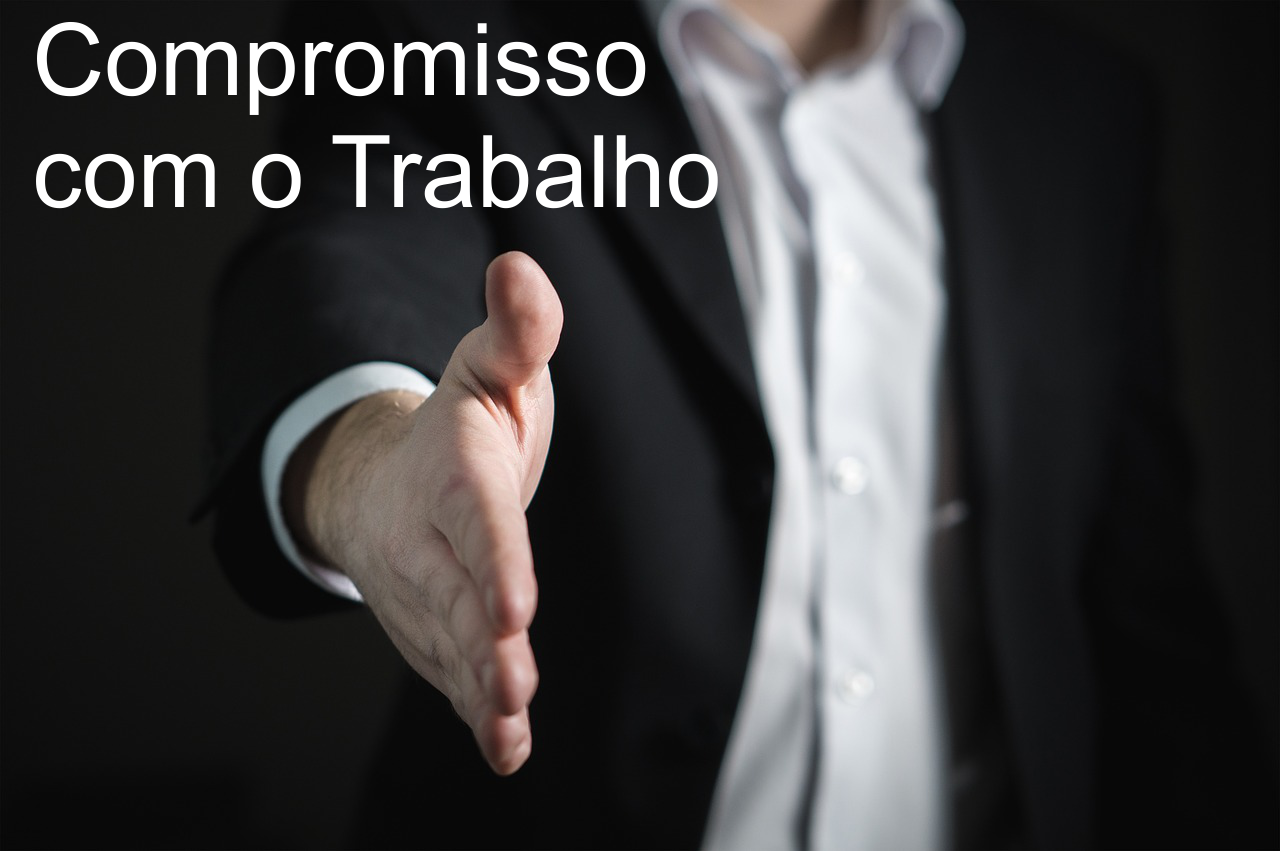
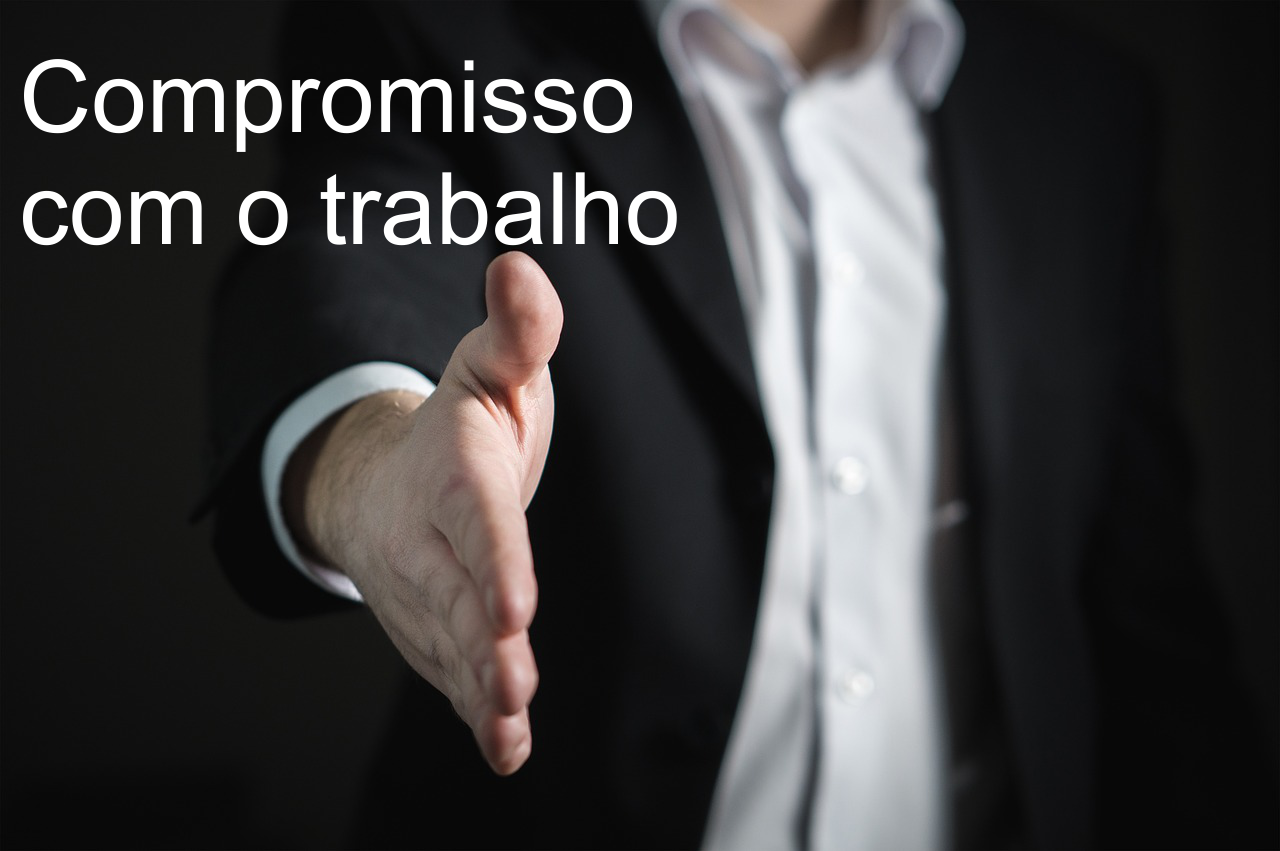
Alterando Menu e carousel

Changed region(s): [[0.0, 0.0306, 0.5625, 0.3055]]

diff --git a/index.html b/index.html
@@ -66,6 +66,10 @@
                         <li>
                             <a  class="menu scroll" href="#trabconosco">Trabalhe Conosco</a>
                         </li>
+                        
+                        <li>
+                                <a href="login.html" class="alert alert-primary">Área do Cliente </a>
+                        </li>
                     </ul>
                 </div>
                 
@@ -76,8 +80,6 @@
       <!-- Slider da aplicação -->
       <section id="slides" >
         <div class="divslider">
-            <div class="container">
-                <div class="col-xs-12">
                     <div id="sliderprincipal" class="carousel slide" data-ride="carousel" >
                 
                     <ol class="carousel-indicators"> 
@@ -86,17 +88,17 @@
                         <li data-target="#sliderprincipal" data-slide-to="2"></li>
                     </ol>
                 
-                        <div class="carousel-inner" role="listbox" align="center" height="50" >
+                        <div class="carousel-inner" role="listbox" align="center"  >
 			                 <div class="item active" height="500">
-				                <img src="imgs/slides/gestao-online.png" alt="gestao online" style="height:500px" width="1110px"> 
+				                <img src="imgs/slides/gestao-online.png" alt="gestao online" style="height:750px;width:100% " > 
 			                 </div>
 			
 			                 <div class="item">
-				                <img src="imgs/slides/administracao.png" alt="Administração de Condominios" style="height:500px" width="1100px"> 
+				                <img src="imgs/slides/administracao.png" alt="Administração de Condominios" style="height:750px;width:100% "> 
 			                 </div>	
 			
 			                 <div class="item">
-				                <img src="imgs/slides/compromisso.png" alt="Comprimisso com o trabalho" style="height:500px" width="1100px"> 
+				                <img src="imgs/slides/compromisso.png" alt="Comprimisso com o trabalho" style="height:750px;width:100% " > 
 			                 </div>	
                         </div>
                         
@@ -111,12 +113,10 @@
                         </a>
                         
                     </div>
-                </div>    
-            </div>
+                   
+           
                       
-                <div class="cols-xs-12 text-center ">
-                    <a href="login.html" class="btn btn-primary  slide_btn_portal">Clique aqui para Acessar o portal </a>
-                </div>
+                
         </div>
       </section>
         <!-- // Slider da aplicação -->

diff --git a/css/estilo.css b/css/estilo.css
@@ -1,4 +1,6 @@
 
+
+
 *{
     font-family: 'Lato',sans-serif;
     font-weight: 300;
@@ -15,9 +17,14 @@ body{
 }
 
 section{
-    padding-top: 25px;
+    padding-top: 10px;
     padding-bottom: 15px;
     min-height: 100vh;  /*ocupar 100% de altura*/
+    
+}
+
+section#slides{
+    background-color: white;
     
 }
 
@@ -99,6 +106,9 @@ img.grayscale:hover{ /*Voltar acor normal ao passar o mouse por cima*/
     font-weight: 700;
 }
 
+.navbar-nav{
+    height: 50px;
+}
 img.menu{
 	
 	height:35px;
@@ -108,7 +118,9 @@ img.menu{
 .divslider{
     padding-top: 15px;
     padding-bottom: 15px;
-    background: url(../imgs/fundo-branco.jpg)
+    /*background: url(../imgs/fundo-branco.jpg);*/
+    width: 100%;
+    height: 530px;
 }
 
 .divslider-cinza{

diff --git a/noticias.html b/noticias.html
@@ -53,6 +53,10 @@
                         <li>
                             <a  class="" href="index.html">Trabalhe Conosco</a>
                         </li>
+                        
+                         <li>
+                                <a href="login.html" class="alert alert-primary">Área do Cliente </a>
+                        </li>
                     </ul>
                 </div>
                 

diff --git a/quem-somos.html b/quem-somos.html
@@ -53,6 +53,10 @@
                         <li>
                             <a  class="" href="index.html">Trabalhe Conosco</a>
                         </li>
+                        
+                         <li>
+                                <a href="login.html" class="alert alert-primary">Área do Cliente </a>
+                        </li>
                     </ul>
                 </div>
                 

diff --git a/servicos.html b/servicos.html
@@ -54,6 +54,10 @@
                         <li>
                             <a  class="" href="index.html">Trabalhe Conosco</a>
                         </li>
+                        
+                         <li>
+                                <a href="login.html" class="alert alert-primary">Área do Cliente </a>
+                        </li>
                     </ul>
                 </div>
                 
